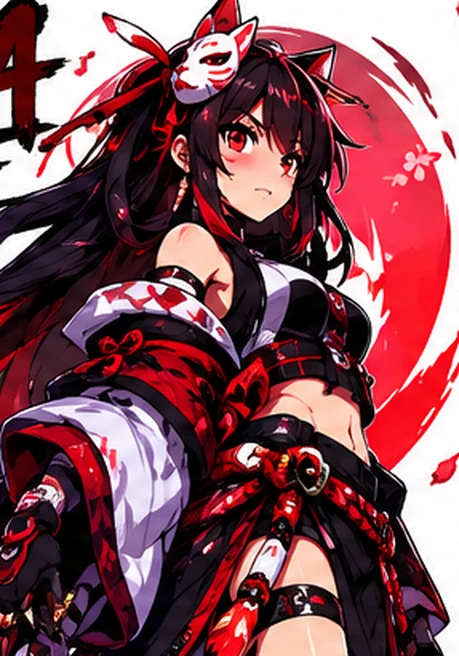
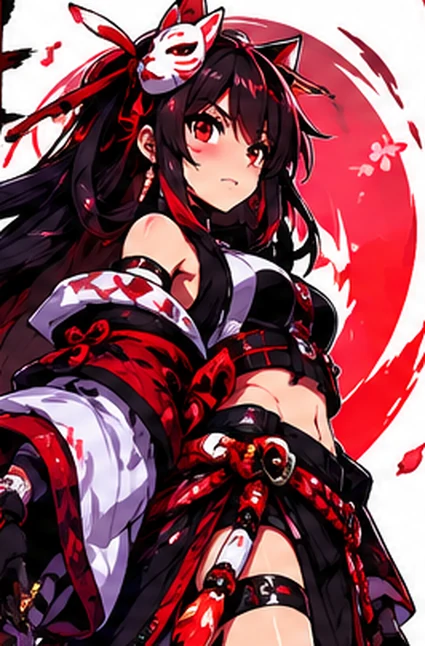
Mise en page paysage, décor plein cadre et portraits recadrés
- Écrans titre et résultat en deux colonnes sous 600 px de haut : tout tient
  sans défilement sur un téléphone tenu à l'horizontale.
- Fiche des coups sur deux colonnes dans le même cas.
- Le décor déborde de l'aire de jeu et remplit les bandes latérales ; une
  vignette assombrit les bords au lieu du noir brut.
- Portraits des quatre personnages recadrés : plus de lettre de titre résiduelle
  sur le bord gauche des cartes.

Claude-Session: https://claude.ai/code/session_01TViRt3tw37UzWMrkhZLHX9

diff --git a/combat/src/styles.css b/combat/src/styles.css
@@ -44,7 +44,7 @@ button { font: inherit; color: inherit; background: none; border: 0; cursor: poi
 
 /* ============================ Écrans ============================ */
 .screen {
-  position: absolute; inset: 0; pointer-events: auto;
+  position: absolute; inset: 0; pointer-events: auto; overflow-y: auto;
   display: flex; flex-direction: column; align-items: center; justify-content: center;
   gap: 18px; padding: 24px calc(24px + var(--safe-l)) calc(20px + var(--safe-b)) calc(24px + var(--safe-r));
   background:
@@ -267,7 +267,7 @@ button { font: inherit; color: inherit; background: none; border: 0; cursor: poi
 
 /* ====================== Pause / Résultat ====================== */
 .overlay {
-  position: absolute; inset: 0; pointer-events: auto; display: flex; flex-direction: column;
+  position: absolute; inset: 0; pointer-events: auto; overflow-y: auto; display: flex; flex-direction: column;
   align-items: center; justify-content: center; gap: 16px;
   background: rgba(5, 5, 10, 0.82); backdrop-filter: blur(6px); animation: fadein 0.2s ease both;
 }
@@ -294,8 +294,35 @@ button { font: inherit; color: inherit; background: none; border: 0; cursor: poi
 }
 .mv .d { font-size: 12px; } .mv .d b { font-weight: 800; } .mv .d i { color: var(--dim); font-style: normal; font-size: 11px; display: block; }
 
-@media (max-height: 420px) {
+/* ---- Paysage sur téléphone : tout tient sans défilement ---- */
+.split .col { display: flex; flex-direction: column; align-items: center; gap: 14px; }
+
+@media (max-height: 600px) {
+  .split { flex-direction: row; align-items: center; justify-content: center; gap: clamp(16px, 5vw, 60px); }
+  .split .col { align-items: flex-start; gap: 10px; }
+  .split .col .row { justify-content: flex-start; }
+  .title-xl { font-size: clamp(32px, 13vh, 74px); }
+  .kicker { letter-spacing: 0.2em; font-size: 10px; }
+  .menu { width: min(330px, 44vw); margin-top: 0; }
+  .result-hero img { width: clamp(84px, 36vh, 168px); }
+  .result-txt .big { font-size: clamp(22px, 9vh, 50px); }
+  .result-txt .sub { font-size: 11px; margin-top: 4px; }
+  .stats b { font-size: 17px; }
+  .sheet { max-height: 84vh; padding: 14px 16px; }
+}
+
+@media (max-height: 600px) and (min-width: 680px) {
+  .sheet { display: grid; grid-template-columns: 1fr 1fr; column-gap: 20px; align-content: start; }
+  .sheet h3, .sheet p, .sheet .row { grid-column: 1 / -1; }
+  .mv { grid-template-columns: 92px 1fr; }
+}
+
+@media (max-height: 460px) {
   .cards { gap: 7px; } .card { max-width: 150px; }
-  .menu { width: min(320px, 70vw); } .mbtn { padding: 11px 15px; font-size: 13px; }
-  .screen { gap: 10px; }
+  .mbtn { padding: 10px 14px; font-size: 13px; }
+  .mbtn small { font-size: 10px; }
+  .screen { gap: 8px; padding-top: 10px; padding-bottom: 10px; }
+  .chip { padding: 7px 11px; font-size: 11px; }
+  .selhead h2 { font-size: clamp(16px, 3.4vw, 24px); }
+  .infobar { min-height: 30px; }
 }

diff --git a/combat/src/ui.ts b/combat/src/ui.ts
@@ -43,8 +43,12 @@ export function titleScreen(
   onHelp: () => void,
 ): void {
   const s = screen();
-  s.appendChild(h('div', 'kicker', 'Arène de combat · 4 champions'));
-  s.appendChild(h('h1', 'title-xl', 'NEON<br>CLASH'));
+  s.classList.add('split');
+  const colA = h('div', 'col');
+  const colB = h('div', 'col');
+  s.append(colA, colB);
+  colA.appendChild(h('div', 'kicker', 'Arène de combat · 4 champions'));
+  colA.appendChild(h('h1', 'title-xl', 'NEON<br>CLASH'));
 
   const menu = h('div', 'menu');
   menu.appendChild(clickable(
@@ -60,7 +64,7 @@ export function titleScreen(
     () => onPlay('training'),
   ));
   menu.appendChild(clickable(h('button', 'mbtn', '<span>Coups spéciaux</span><span class="arrow">?</span>'), onHelp));
-  s.appendChild(menu);
+  colB.appendChild(menu);
 
   const row = h('div', 'row');
   const diffs: [string, number][] = [['Facile', 0.6], ['Normal', 1], ['Difficile', 1.5]];
@@ -83,7 +87,7 @@ export function titleScreen(
     save(st);
   });
   row.appendChild(snd);
-  s.appendChild(row);
+  colB.appendChild(row);
 }
 
 export function save(st: Settings): void {
@@ -210,7 +214,10 @@ export function resultScreen(
   onRematch: () => void, onSelect: () => void, onMenu: () => void,
 ): void {
   clearScreens();
-  const o = h('div', 'overlay');
+  const o = h('div', 'overlay split');
+  const colA = h('div', 'col');
+  const colB = h('div', 'col');
+  o.append(colA, colB);
   const hero = h('div', 'result-hero');
   hero.innerHTML =
     `<img src="${portrait(winner)}" alt="" />` +
@@ -223,12 +230,12 @@ export function resultScreen(
     `<div>Meilleur combo<b>${info.combo}</b></div>` +
     `<div>Durée<b>${info.time}</b></div>` +
     `</div></div>`;
-  o.appendChild(hero);
+  colA.appendChild(hero);
   const menu = h('div', 'menu');
   menu.appendChild(clickable(h('button', 'mbtn primary', '<span>Revanche</span><span class="arrow">↻</span>'), onRematch));
   menu.appendChild(clickable(h('button', 'mbtn', '<span>Changer de personnage</span><span class="arrow">▶</span>'), onSelect));
   menu.appendChild(clickable(h('button', 'mbtn', '<span>Menu principal</span><span class="arrow">⌂</span>'), onMenu));
-  o.appendChild(menu);
+  colB.appendChild(menu);
   screens.appendChild(o);
 }
 

diff --git a/combat/src/main.ts b/combat/src/main.ts
@@ -30,6 +30,7 @@ let prevApp: AppState = 'title';
 
 // ------------------------------------------------------------- Affichage --
 let view = { k: 1, ox: 0, oy: 0 };
+let vignette: CanvasGradient | null = null;
 function resize(): void {
   const dpr = Math.min(window.devicePixelRatio || 1, 2.5);
   const w = window.innerWidth, hgt = window.innerHeight;
@@ -37,6 +38,11 @@ function resize(): void {
   canvas.height = Math.floor(hgt * dpr);
   const k = Math.min(w / VW, hgt / VH) * dpr;
   view = { k, ox: (w * dpr - VW * k) / 2, oy: (hgt * dpr - VH * k) / 2 };
+  const cw = canvas.width, ch = canvas.height;
+  const g = ctx.createRadialGradient(cw / 2, ch / 2, Math.min(cw, ch) * 0.34, cw / 2, ch / 2, Math.max(cw, ch) * 0.72);
+  g.addColorStop(0, 'rgba(0,0,0,0)');
+  g.addColorStop(1, 'rgba(0,0,0,0.55)');
+  vignette = g;
 }
 window.addEventListener('resize', resize);
 window.addEventListener('orientationchange', () => setTimeout(resize, 120));
@@ -188,12 +194,11 @@ const loop = new Loop(
     ctx.fillStyle = '#05040a';
     ctx.fillRect(0, 0, canvas.width, canvas.height);
     if (scene && (app === 'fight' || app === 'pause' || (app === 'help' && prevApp === 'pause'))) {
+      // pas de rognage : le décor déborde et remplit les bandes latérales
       ctx.setTransform(view.k, 0, 0, view.k, view.ox, view.oy);
-      ctx.beginPath();
-      ctx.rect(0, 0, VW, VH);
-      ctx.clip();
       scene.render(ctx);
       ctx.setTransform(1, 0, 0, 1, 0, 0);
+      if (vignette) { ctx.fillStyle = vignette; ctx.fillRect(0, 0, canvas.width, canvas.height); }
       const s = scene.hud();
       hud.update(s, scene.round);
       touch?.setUlt(scene.f0.meter >= 100, clamp(scene.f0.meter, 0, 100));

diff --git a/combat/src/fight.ts b/combat/src/fight.ts
@@ -245,7 +245,7 @@ export class FightScene implements GameApi {
     this.difficulty = opts?.difficulty ?? 1;
     this.roundsToWin = opts?.rounds ?? 2;
     for (let i = 0; i < 46; i++) {
-      this.bgParts.push({ x: rr(0, VW), y: rr(40, GROUND_Y), z: rr(0.3, 1), s: rr(1, 2.8) });
+      this.bgParts.push({ x: rr(-200, VW + 200), y: rr(40, GROUND_Y), z: rr(0.3, 1), s: rr(1, 2.8) });
     }
     this.startRound(true);
   }
@@ -743,7 +743,7 @@ export class FightScene implements GameApi {
   render(ctx: CanvasRenderingContext2D): void {
     ctx.save();
     ctx.fillStyle = '#05040a';
-    ctx.fillRect(0, 0, VW, VH);
+    ctx.fillRect(-400, -200, VW + 800, VH + 400);
 
     const shX = this.shakeAmt ? rr(-this.shakeAmt, this.shakeAmt) : 0;
     const shY = this.shakeAmt ? rr(-this.shakeAmt, this.shakeAmt) : 0;
@@ -796,18 +796,18 @@ export class FightScene implements GameApi {
 
     // silhouettes lointaines
     ctx.fillStyle = s.far;
-    for (let i = 0; i < 11; i++) {
+    for (let i = 0; i < 15; i++) {
       const w = 60 + ((i * 97) % 70);
       const h = 90 + ((i * 53) % 180);
-      const x = -40 + i * 95;
+      const x = -220 + i * 95;
       ctx.fillRect(x, GROUND_Y - h, w, h);
     }
     ctx.save();
     ctx.globalAlpha = 0.5;
     ctx.fillStyle = s.accent;
-    for (let i = 0; i < 11; i++) {
+    for (let i = 0; i < 15; i++) {
       const h = 90 + ((i * 53) % 180);
-      const x = -40 + i * 95;
+      const x = -220 + i * 95;
       for (let k = 0; k < 4; k++) ctx.fillRect(x + 8 + k * 13, GROUND_Y - h + 16 + ((i + k) % 5) * 22, 4, 7);
     }
     ctx.restore();
